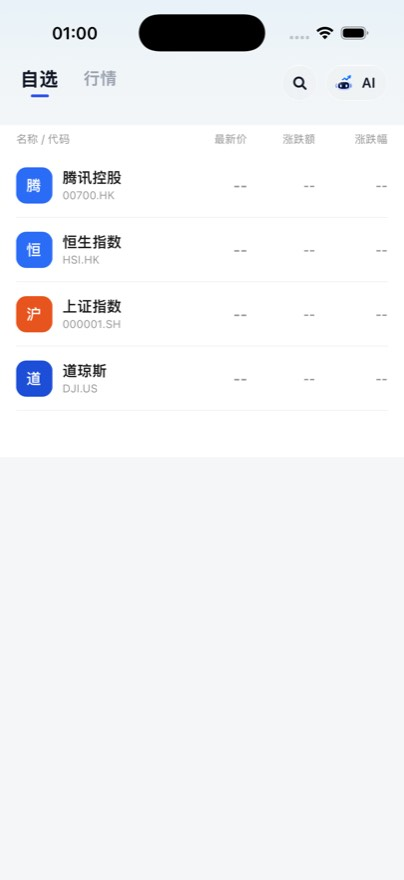
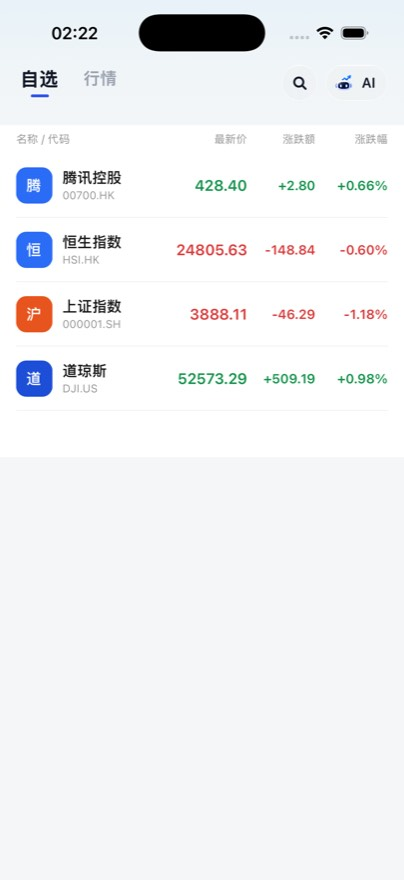
fix(ios): fetch quotes from Tencent UTF-8 endpoint
iOS NetworkModule only decodes UTF-8, so GBK qt.gtimg.cn bodies became empty and lists showed dashes. Switch to the utf8 quote URL and refresh iOS market, watch, and detail README shots.

diff --git a/shared/src/commonMain/kotlin/com/kuikly/stockchat/data/market/TencentMarketParser.kt b/shared/src/commonMain/kotlin/com/kuikly/stockchat/data/market/TencentMarketParser.kt
@@ -13,7 +13,8 @@ import com.tencent.kuikly.core.nvi.serialization.json.JSONObject
 /**
  * 腾讯证券公开行情接口解析器。
  *
- * - 实时行情：`https://qt.gtimg.cn/q=hk00700` → `v_hk00700="100~腾讯控股~00700~price~...";`
+ * - 实时行情：`https://web.sqt.gtimg.cn/utf8/q=hk00700` → `v_hk00700="100~腾讯控股~00700~price~...";`
+ *   不用 `qt.gtimg.cn`：该域回 GBK，iOS NetworkModule 按 UTF-8 解码会得到空串，列表报价全是 `--`。
  * - K 线：`https://web.ifzq.gtimg.cn/appstock/app/fqkline/get?param=hk00700,day,,,320,qfq`
  * - 分时：`https://web.ifzq.gtimg.cn/appstock/app/minute/query?code=hk00700`
  *
@@ -21,13 +22,13 @@ import com.tencent.kuikly.core.nvi.serialization.json.JSONObject
  */
 object TencentMarketParser {
 
-    const val QUOTE_BASE = "https://qt.gtimg.cn/q="
+    const val QUOTE_BASE = "https://web.sqt.gtimg.cn/utf8/q="
     const val KLINE_URL = "https://web.ifzq.gtimg.cn/appstock/app/fqkline/get"
     const val MKLINE_URL = "https://ifzq.gtimg.cn/appstock/app/kline/mkline"
     const val MINUTE_URL = "https://web.ifzq.gtimg.cn/appstock/app/minute/query"
 
     fun quoteUrl(instruments: List<Instrument>): String =
-        QUOTE_BASE + instruments.flatMap { quoteRequestKeys(it) }.distinct().joinToString(",")
+        QUOTE_BASE + instruments.map { quoteRequestKeys(it).first() }.distinct().joinToString(",")
 
     /**
      * 实际请求键不能带交易所后缀：`usAAPL.OQ` 会回 `v_pv_none_match`，

diff --git a/shared/src/commonTest/kotlin/com/kuikly/stockchat/data/market/TencentQuoteParserTest.kt b/shared/src/commonTest/kotlin/com/kuikly/stockchat/data/market/TencentQuoteParserTest.kt
@@ -30,7 +30,7 @@ class TencentQuoteParserTest {
     @Test
     fun quoteUrlBatchesMultipleSymbols() {
         val url = TencentMarketParser.quoteUrl(listOf(StockCatalog.tencent, StockCatalog.moutai, StockCatalog.apple))
-        assertTrue(url.startsWith("https://qt.gtimg.cn/q="))
+        assertTrue(url.startsWith("https://web.sqt.gtimg.cn/utf8/q="))
         assertTrue(url.contains("hk00700"))
         assertTrue(url.contains("sh600519"))
         assertTrue(url.contains("usAAPL") || url.contains("AAPL"))
